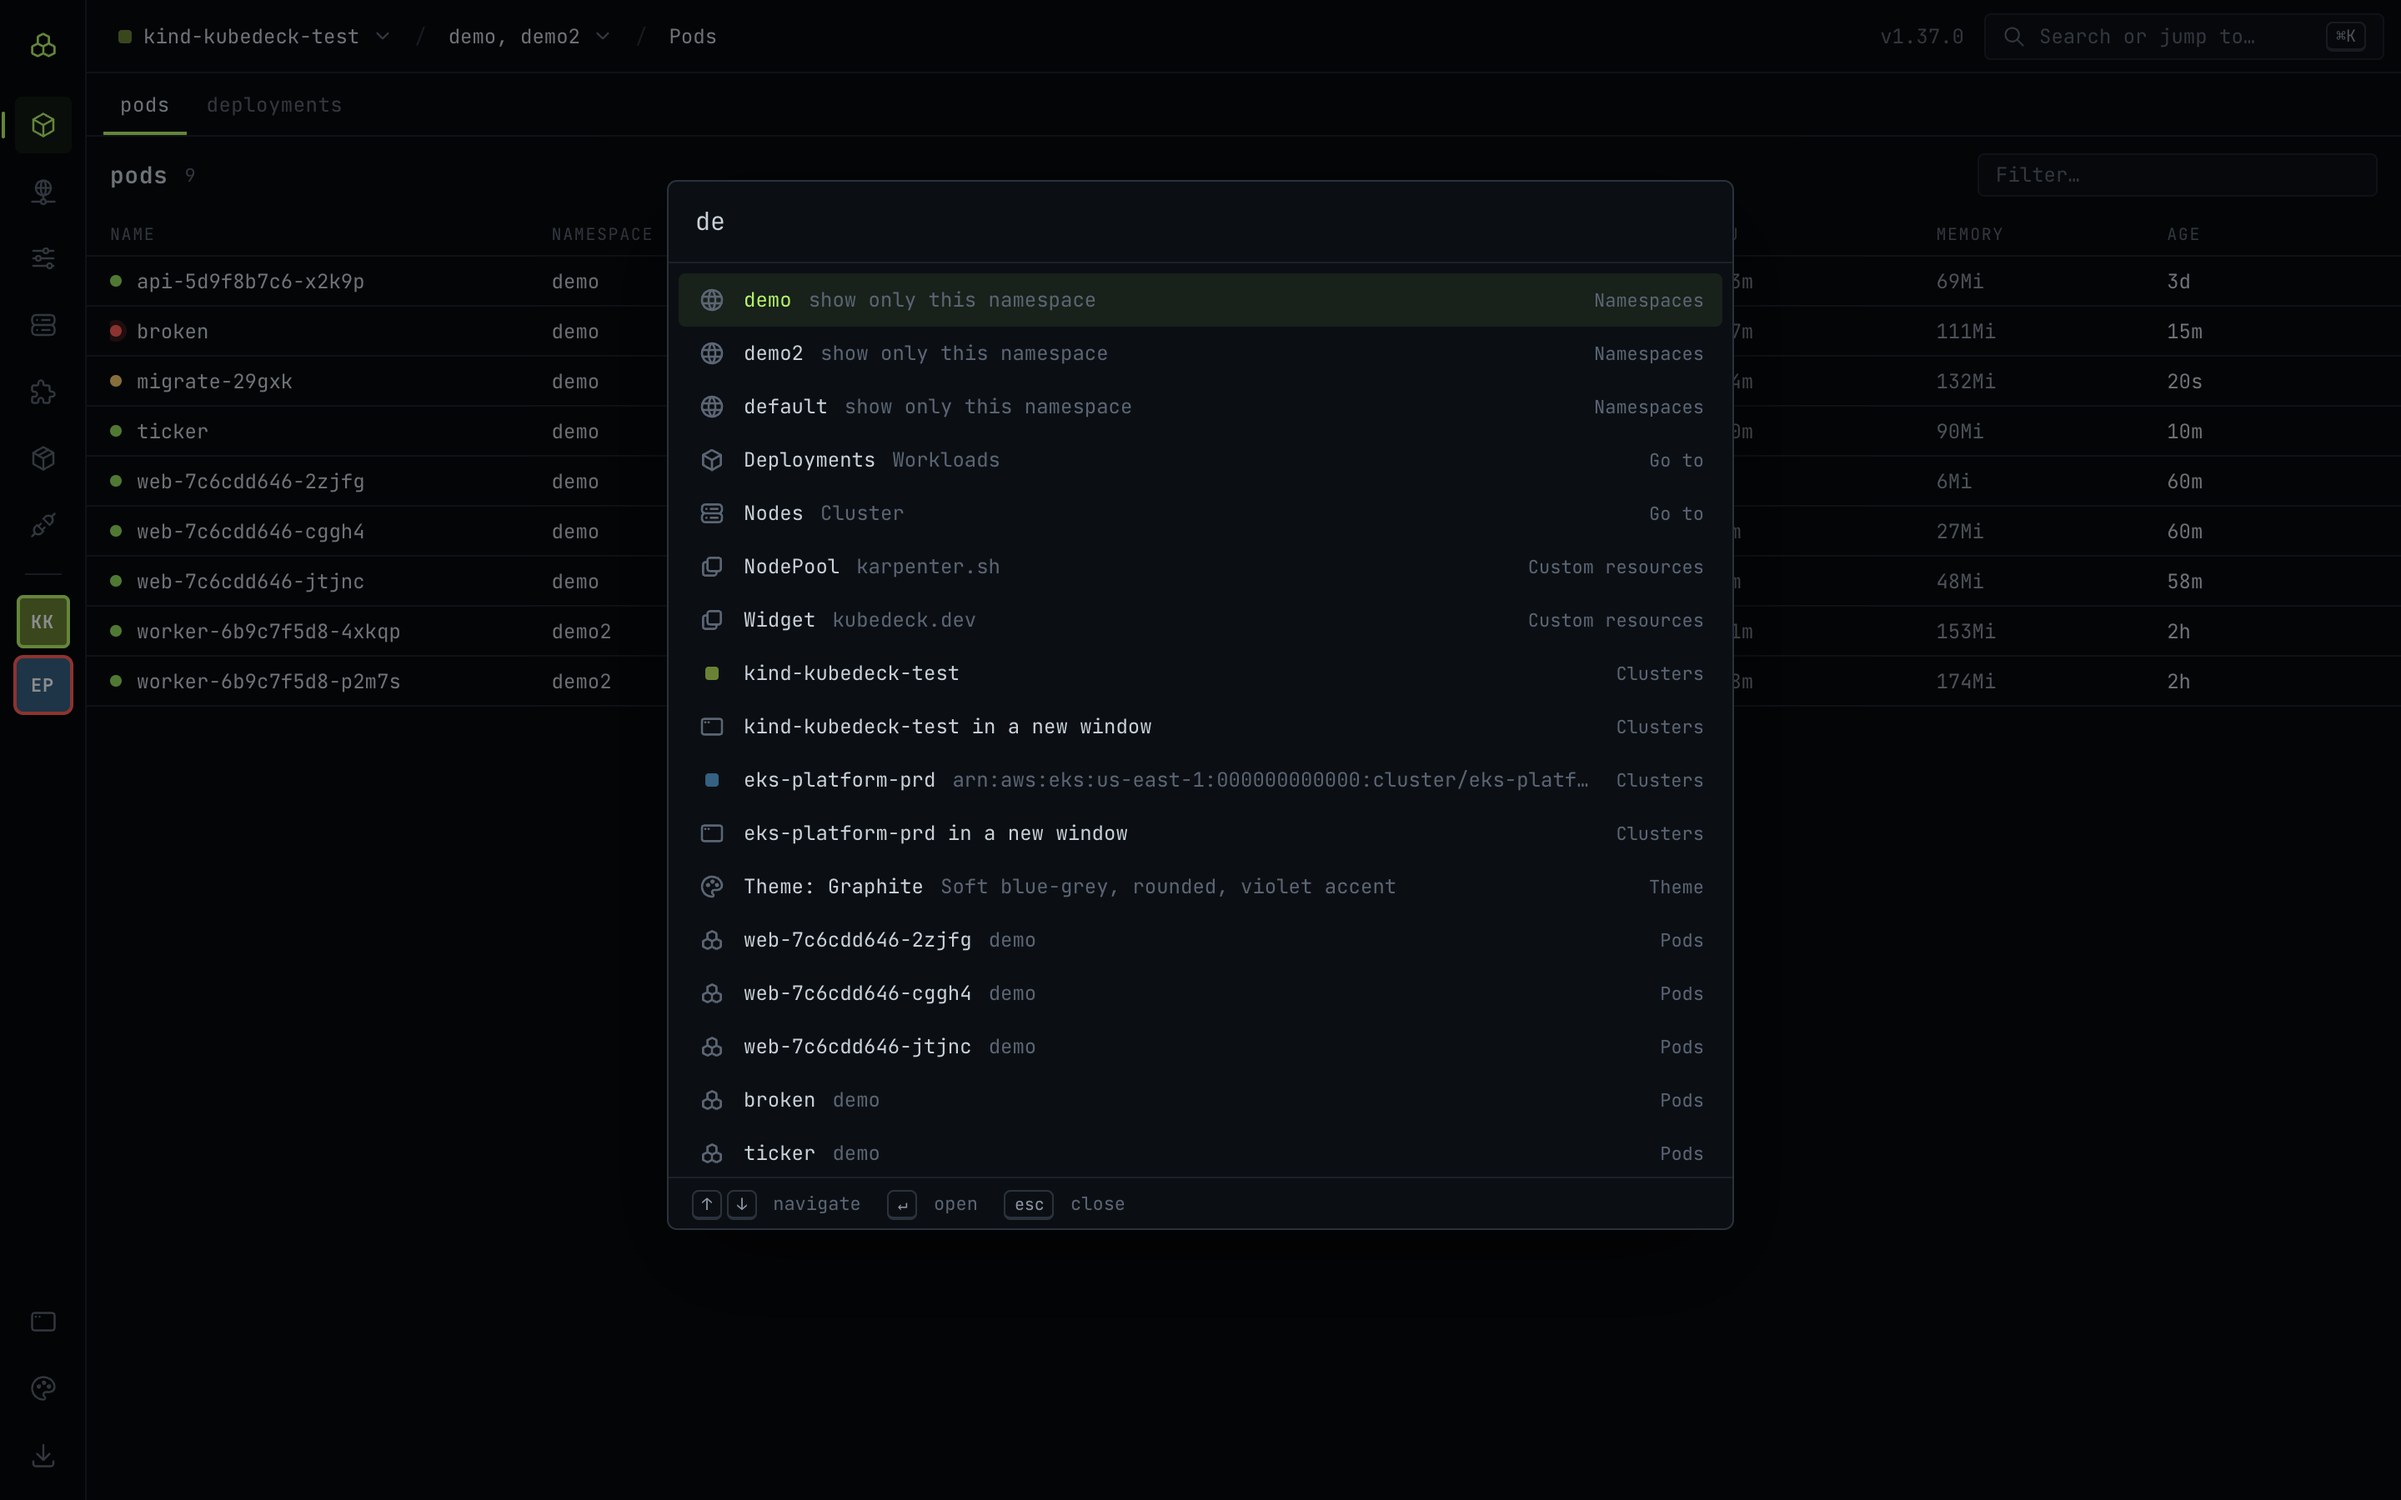
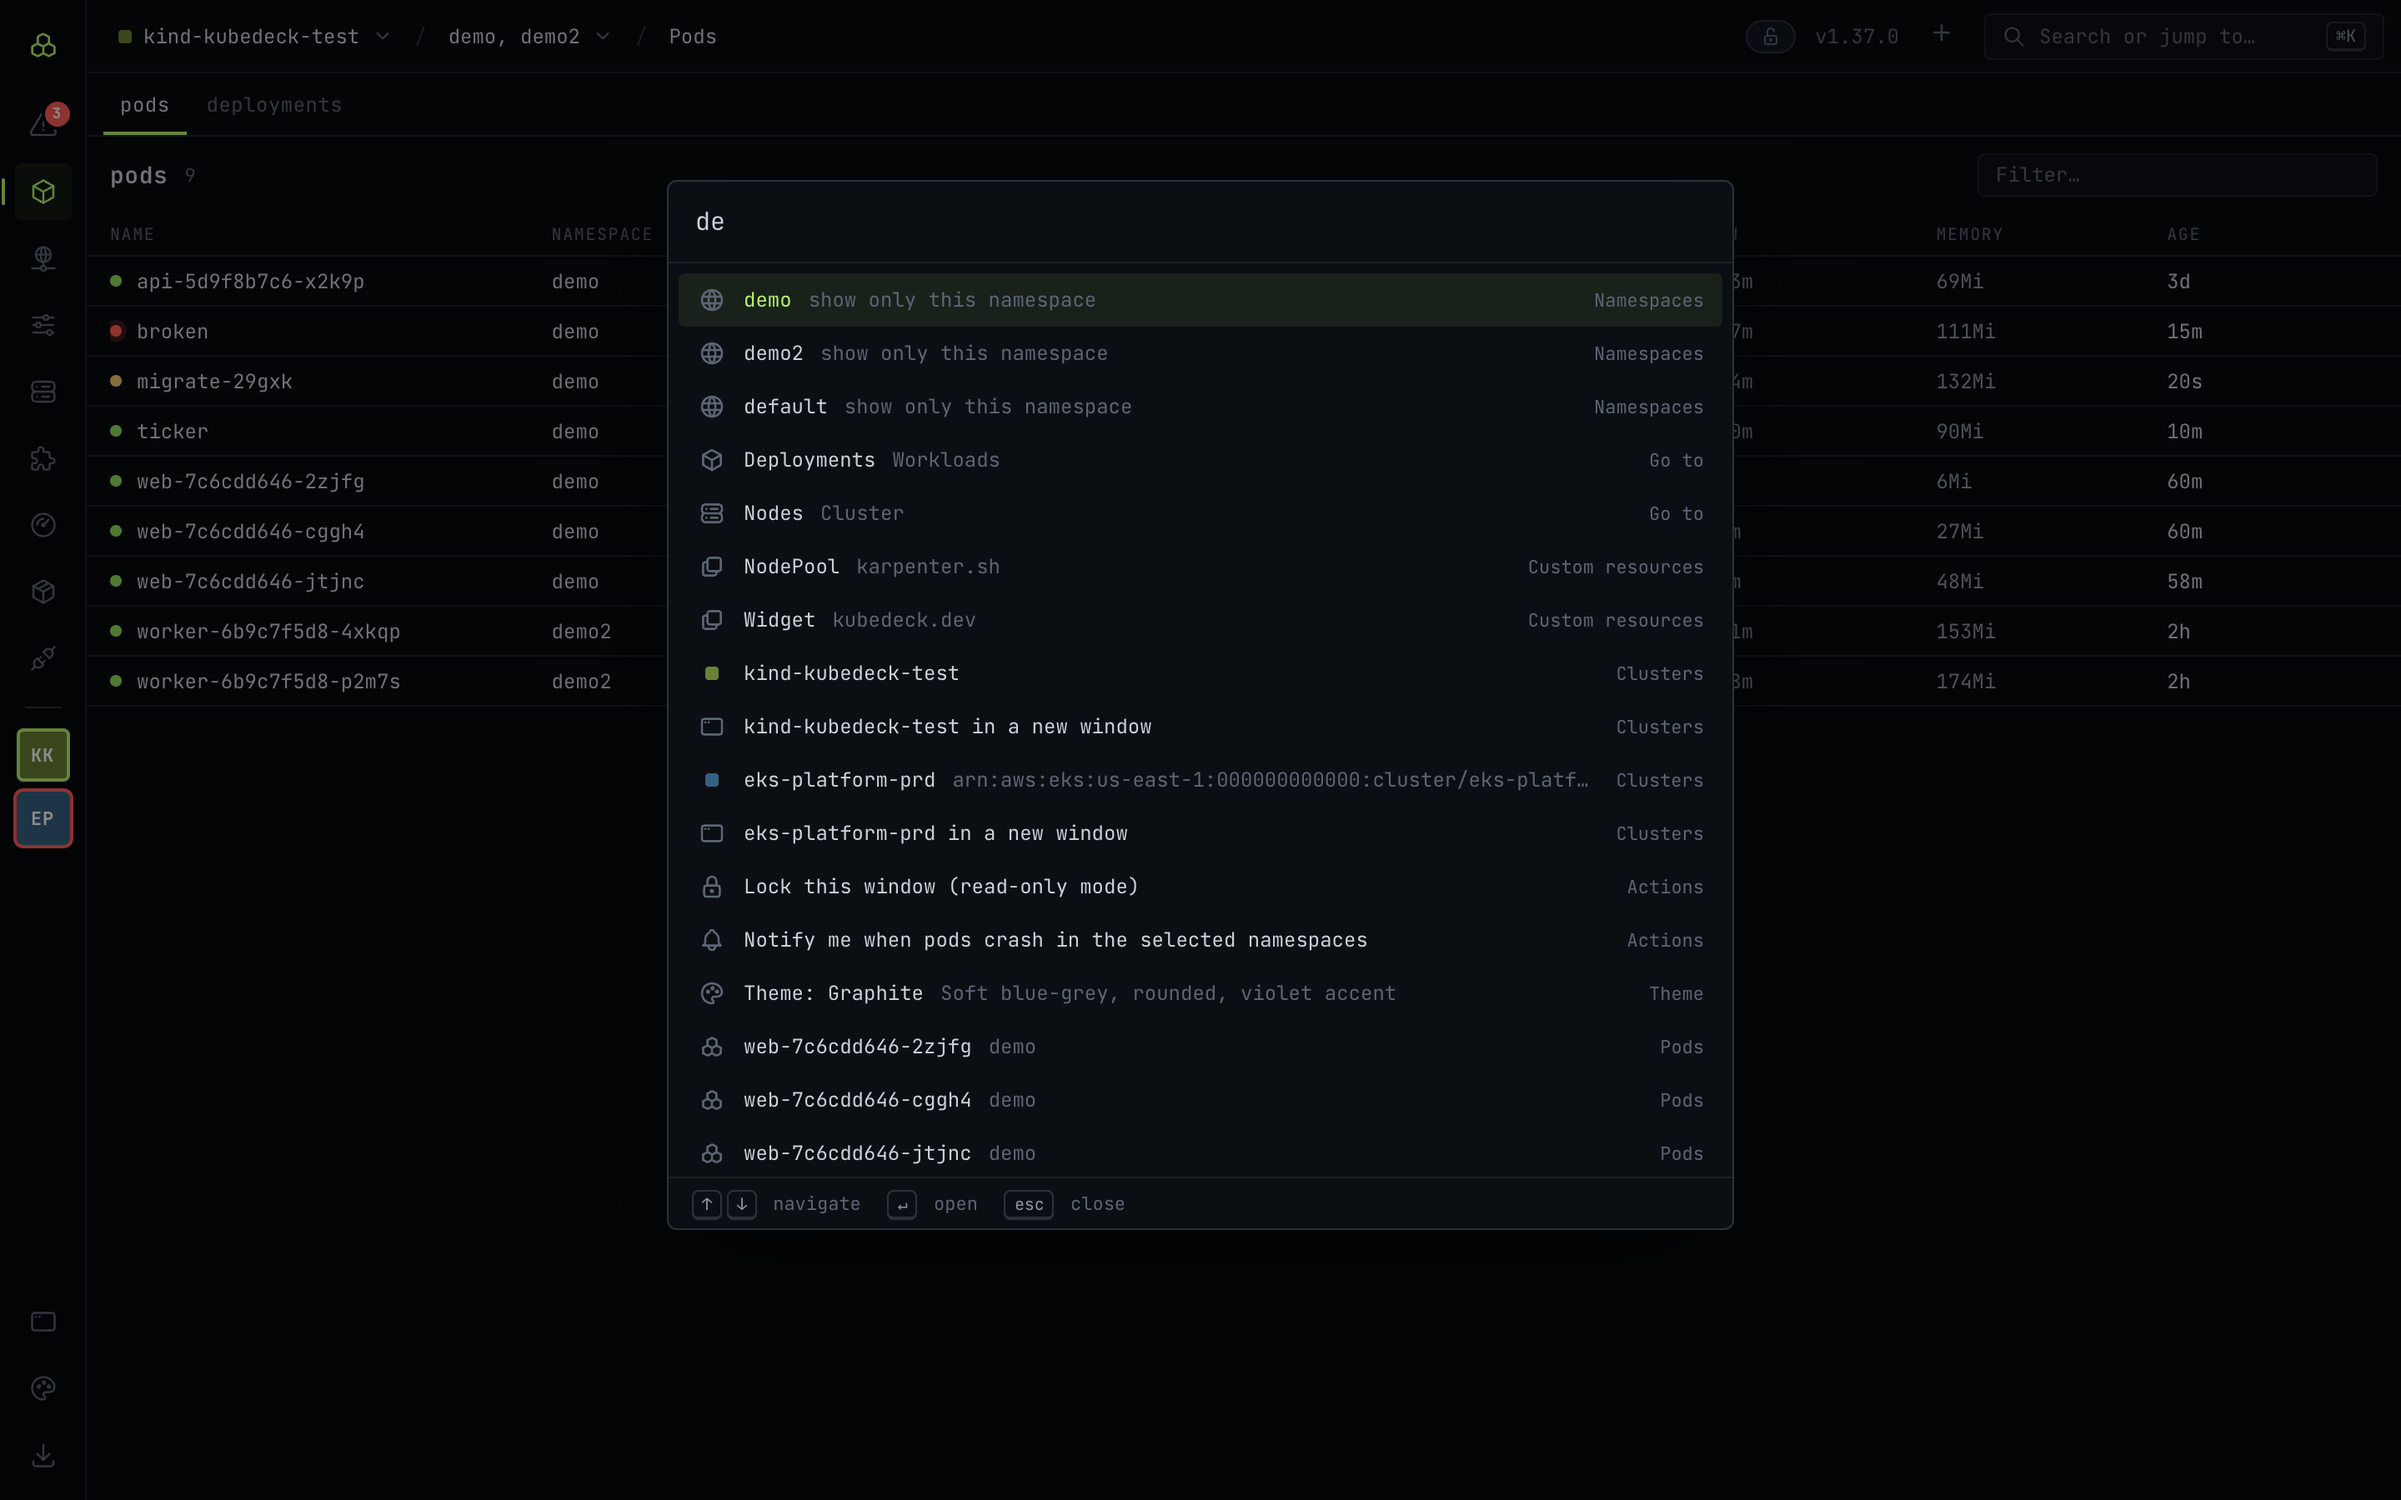
Document blocks 1-4 and refresh screenshots

diff --git a/README.md b/README.md
@@ -12,8 +12,12 @@ Cliente desktop de Kubernetes, no estilo do Lens: **Tauri 2 + Rust** (`kube-rs`)
 | **Métricas do pod:** uso de CPU e memória contra requests e limits, restarts, última parada (OOMKilled em destaque) e histórico do Prometheus com rede e throttling. | **Paleta de comandos (⌘K):** busca aproximada por tipos, CRDs, recursos, clusters, namespaces, temas e ações. |
 | ![Releases Helm no tema Grafite](docs/screenshots/helm-graphite.png) | ![Editor de YAML no tema Claro](docs/screenshots/yaml-light.png) |
 | **Helm no tema Grafite:** releases, histórico com rollback, upgrade e instalação de charts. | **YAML no tema Claro:** edição com Monaco, protegida contra sobrescrever mudanças de outra pessoa, e port forward por porta. |
-| ![Tela inicial](docs/screenshots/welcome.png) | |
-| **Tela inicial:** clusters fixados primeiro, produção sinalizada. | |
+| ![Problemas](docs/screenshots/problems.png) | ![Explicar com o Claude](docs/screenshots/explain.png) |
+| **Problems:** tudo que parece errado nos namespaces escolhidos, do mais grave ao menos; um clique abre o objeto. | **Explain with Claude:** o Claude lê manifesto (sem segredos), eventos e logs e sugere causa e correção. |
+| ![Visão de um node](docs/screenshots/node-overview.png) | ![Rightsizing](docs/screenshots/rightsizing.png) |
+| **Node:** capacidade contra requests e uso real, histórico, condições, taints, cordon e drain com prévia. | **Rightsizing:** requests contra o uso real de cada container, com sugestão e o quanto dá para recuperar. |
+| ![Dock com logs](docs/screenshots/dock.png) | ![Tela inicial](docs/screenshots/welcome.png) |
+| **Dock:** terminais e logs que continuam abertos enquanto você navega. | **Tela inicial:** clusters fixados primeiro, produção sinalizada. |
 
 As imagens usam os dados de exemplo da interface em modo navegador. Para refazê-las depois de mudar a interface, rode `npm run dev` e, em outro terminal, `npm run screenshots` (usa o Google Chrome instalado na máquina).
 
@@ -59,6 +63,20 @@ O app ainda não é assinado com Developer ID nem notarizado. O script de instal
   - **Port forward** de pods e services. Cada porta TCP vira um botão. O service escolhe um pod pronto a cada conexão, então continua funcionando quando os pods são trocados. A tela **Port Forwards** lista os túneis ativos, com o número de conexões e o último erro.
 - **Helm Releases:** lista os releases e mostra valores, manifest, notas e histórico, com **rollback** para uma revisão anterior e **uninstall**. **Install chart** busca nos repositórios configurados (os mesmos do `helm repo list`, que podem ser gerenciados ali), escolhe a versão e abre os valores padrão do chart para editar; a aba **Upgrade** de cada release parte dos valores atuais. As duas têm *dry run* (renderiza e valida no servidor sem mudar nada) e a confirmação de produção. O app traz o próprio Helm (3.22.1) embutido como sidecar, então funciona sem nada instalado na máquina. Ele usa sempre o mesmo kubeconfig e contexto do app. Para usar outro binário, defina `KUBEDECK_HELM` com o caminho dele.
 - **Credenciais expiradas:** se o cluster recusar as credenciais (401, por exemplo quando a sessão AWS por trás do `aws eks get-token` vence), uma faixa explica o que renovar (o comando e o profile AWS do kubeconfig) e o app tenta reconectar sozinho a cada 20 s. Assim que as credenciais voltam a valer, a janela se recupera sem precisar reabrir.
+- **Workloads:** restart, scale e pause/resume de Deployments, StatefulSets e DaemonSets; aba **Rollout** com o histórico de revisões, diff entre elas e rollback; aba **Events** de cada objeto.
+- **Logs melhores:** execução anterior (`--previous`), logs juntos de todos os pods de um workload, modo JSON, busca com destaque, copiar e salvar em arquivo.
+- **Problems** (primeiro ícone do trilho, com contador de críticos): crash loops, OOMKilled, imagens que não baixam, pods pendentes ou não prontos, workloads indisponíveis, jobs com falha, PVCs pendentes e nodes com problema.
+- **Related:** dono, pods, services, ingresses, ConfigMaps/Secrets usados e node de cada objeto, todos clicáveis.
+- **Nodes:** visão com capacidade, requests e uso, histórico do Prometheus, condições e taints; **cordon/uncordon** e **drain** com prévia do que será despejado (respeita PodDisruptionBudgets; pula DaemonSets e pods estáticos).
+- **Explain with Claude:** só quando você clica. Envia à API da Anthropic o manifesto (valores de env e anotação `last-applied` removidos), os eventos e, para pods, os logs recentes; Secrets nunca são enviados. A chave fica no chaveiro do sistema (ou em `ANTHROPIC_API_KEY`).
+- **Modo somente leitura por cluster:** clusters de produção abrem travados (o backend recusa qualquer escrita, inclusive terminal). O cadeado na barra destrava por 15 minutos; ⌘K → "Always open this cluster read-only" muda o padrão de cada cluster.
+- **Secrets escondidos:** o YAML de um Secret vem mascarado até você clicar em **Reveal values**; a aba **Data** revela ou copia uma chave por vez, com confirmação em produção.
+- **Login pelo app:** a faixa de credenciais expiradas tem um campo com o comando de login (`aws sso login --profile …` por padrão, editável e lembrado por cluster) e o botão **Run login**, que roda o comando e reconecta.
+- **Dock:** "open in dock" nas abas de logs e terminal leva a sessão para abas na parte de baixo, que continuam rodando enquanto você navega.
+- **Port forwards favoritos:** a estrela numa linha de Port Forwards reabre aquele túnel sempre que o cluster é conectado.
+- **Criar a partir de YAML** (botão `+` ou ⌘K): cola um ou mais documentos, valida com dry run no servidor e cria. Ao salvar edições, um **diff** mostra exatamente o que muda antes de enviar.
+- **Notificações:** ⌘K → "Notify me when pods crash…" avisa no sistema quando aparece um crash loop, OOMKilled ou erro de imagem nos namespaces selecionados.
+- **Rightsizing:** requests e limits de cada container contra o uso real (p95 de CPU e pico de memória em 24 h pelo Prometheus, ou o uso atual pelo metrics-server), com o request sugerido e o total que dá para recuperar.
 - **Proteção de produção:** contextos com `prd`/`prod`/`production` no nome mostram uma faixa vermelha. Salvar, apagar, instalar, fazer upgrade, rollback ou uninstall nesses contextos exige digitar o nome do recurso.
 
 ## Desenvolver

diff --git a/CLAUDE.md b/CLAUDE.md
@@ -38,11 +38,12 @@ Rust (`src-tauri/src/`), one module per feature; every `#[tauri::command]` is re
 - `kinds.rs` — built-in kinds + CRD-derived kinds; `summarize` turns any object into a table `Row`; `json_path` evaluates CRD printer columns.
 - `resources.rs` — generic watch/get/replace/delete over `DynamicObject`.
 - `streams.rs` (logs, exec), `portforward.rs`, `helm.rs` (releases; shells out to the bundled `helm`), `helm_charts.rs` (repos, search, install/upgrade), `metrics.rs` (metrics-server, table columns), `pod_insights.rs` (pod drawer metrics: usage vs requests/limits, Prometheus detection and history through the API server service proxy), `updater.rs` (self-update from private GitHub releases), `windows.rs` (new windows).
+- `workloads.rs` (restart, scale, pause, rollout history and rollback, object events), `diagnostics.rs` (Problems scan and the Related graph), `nodes.rs` (node summary, cordon, drain via the eviction API), `rightsizing.rs` (requests vs Prometheus/metrics-server usage per workload container), `secrets.rs` (masking and per-key reveal), `ai.rs` (Explain with Claude: key in the system keychain, redacted context, streamed SSE).
 - `e2e_test.rs` — end-to-end tests that call the real commands through `tauri::test::mock_builder`; `Session::of(&app, "main")` gives a window's session, and `Sessions::with_helm_env` isolates helm's repository config.
 
 UI (`src/`): `api.ts` holds a typed wrapper for every command; components in `src/components/`; `useStream.ts` owns stream lifecycles; `dev-mock.ts` mirrors the commands for browser-only work.
 
-Layout: `Rail` (sections from `sections.ts`, pinned clusters from `pins.ts`, theme and update popovers) · `TopBar` (cluster / namespaces / view breadcrumb, ⌘K trigger) · `KindTabs` · `.workspace` (table + right-hand `.details` drawer) · `CommandPalette` (commands are built in `App.tsx`).
+Layout: `Rail` (sections, with the Problems badge from `sections.ts`, pinned clusters from `pins.ts`, theme and update popovers) · `TopBar` (cluster / namespaces / view breadcrumb, ⌘K trigger) · `KindTabs` · `.workspace` (table + right-hand `.details` drawer) · `Dock` (bottom terminals/logs, `dock.ts` context) · `CommandPalette` (commands are built in `App.tsx`). Per-viewer preferences live in localStorage per cluster: `readOnly.ts` (lock default, login command), `favorites.ts` (starred port forwards, restarted on connect), `notify.ts` (crash notifications, fed by the Problems polling).
 
 ## Conventions
 
@@ -54,7 +55,9 @@ Layout: `Rail` (sections from `sections.ts`, pinned clusters from `pins.ts`, the
 - Prometheus is reached with `client.request_text` on `/api/v1/namespaces/<ns>/services/<svc>:<port>/proxy/...` (the user's own RBAC), never a port forward. Detection runs once per connection (`Connection::prometheus`); `KUBEDECK_PROMETHEUS=ns/svc:port` overrides it. Charts are `components/LineChart.tsx` (plain SVG, `--chart-*` tokens).
 - Anything that shells out to helm goes through `helm::helm` (cluster commands, adds `--kube-context`) or `helm::helm_local` (repos/search), so the session's helm environment applies.
 - **Errors from the API**: map `kube::Error` with `state::kube_err` (readable, and 401s say "(401)", which the UI's `isUnauthorized` matches) and flag 401s where the UI needs to react (`WatchMsg::Error.unauthorized`). A 401 means expired/revoked credentials: the UI shows the auth banner and reconnects quietly every 20s, re-running the kubeconfig exec plugin.
-- Secret values never go into table rows (`summarize` counts keys only).
+- Secret values never go into table rows (`summarize` counts keys only), `get_yaml` masks them unless `reveal`, and `ai.rs` refuses Secrets and redacts env values. Keep it that way.
+- **Read-only mode**: every command that changes the cluster calls `state.writable()?` first (dry runs excepted). The UI locks production contexts by default (`readOnly.ts`), but the backend is what enforces it; new write commands must call it and get a line in the read-only e2e test.
+- **Claude** is called with raw HTTP from `ai.rs` (no Rust SDK): model `claude-opus-5-5`, streamed, with server-side fallback (`content_block_start` of type `fallback` restarts the text). Only on an explicit click, never automatically.
 - **Styling**: use only the theme tokens from the top of `App.css` (`--bg*`, `--line*`, `--text*`, `--accent*`, `--ok/--warn/--bad`, `--font-ui/--font-mono`, `--radius*`); never hard-code colors, or a theme will break. A new theme is one `[data-theme]` block plus an entry in `theme.ts` (with Monaco and xterm colors). Icons come from `@tabler/icons-react`; fonts are bundled (`@fontsource-variable/*`), never loaded from a CDN.
 - After visible UI changes, regenerate the README images with `npm run screenshots` (scenes are in `scripts/screenshots.mjs`; keep `dev-mock.ts` realistic enough to photograph).
 - New global actions belong in the command palette (`commands` in `App.tsx`) as well as wherever they have a button.
